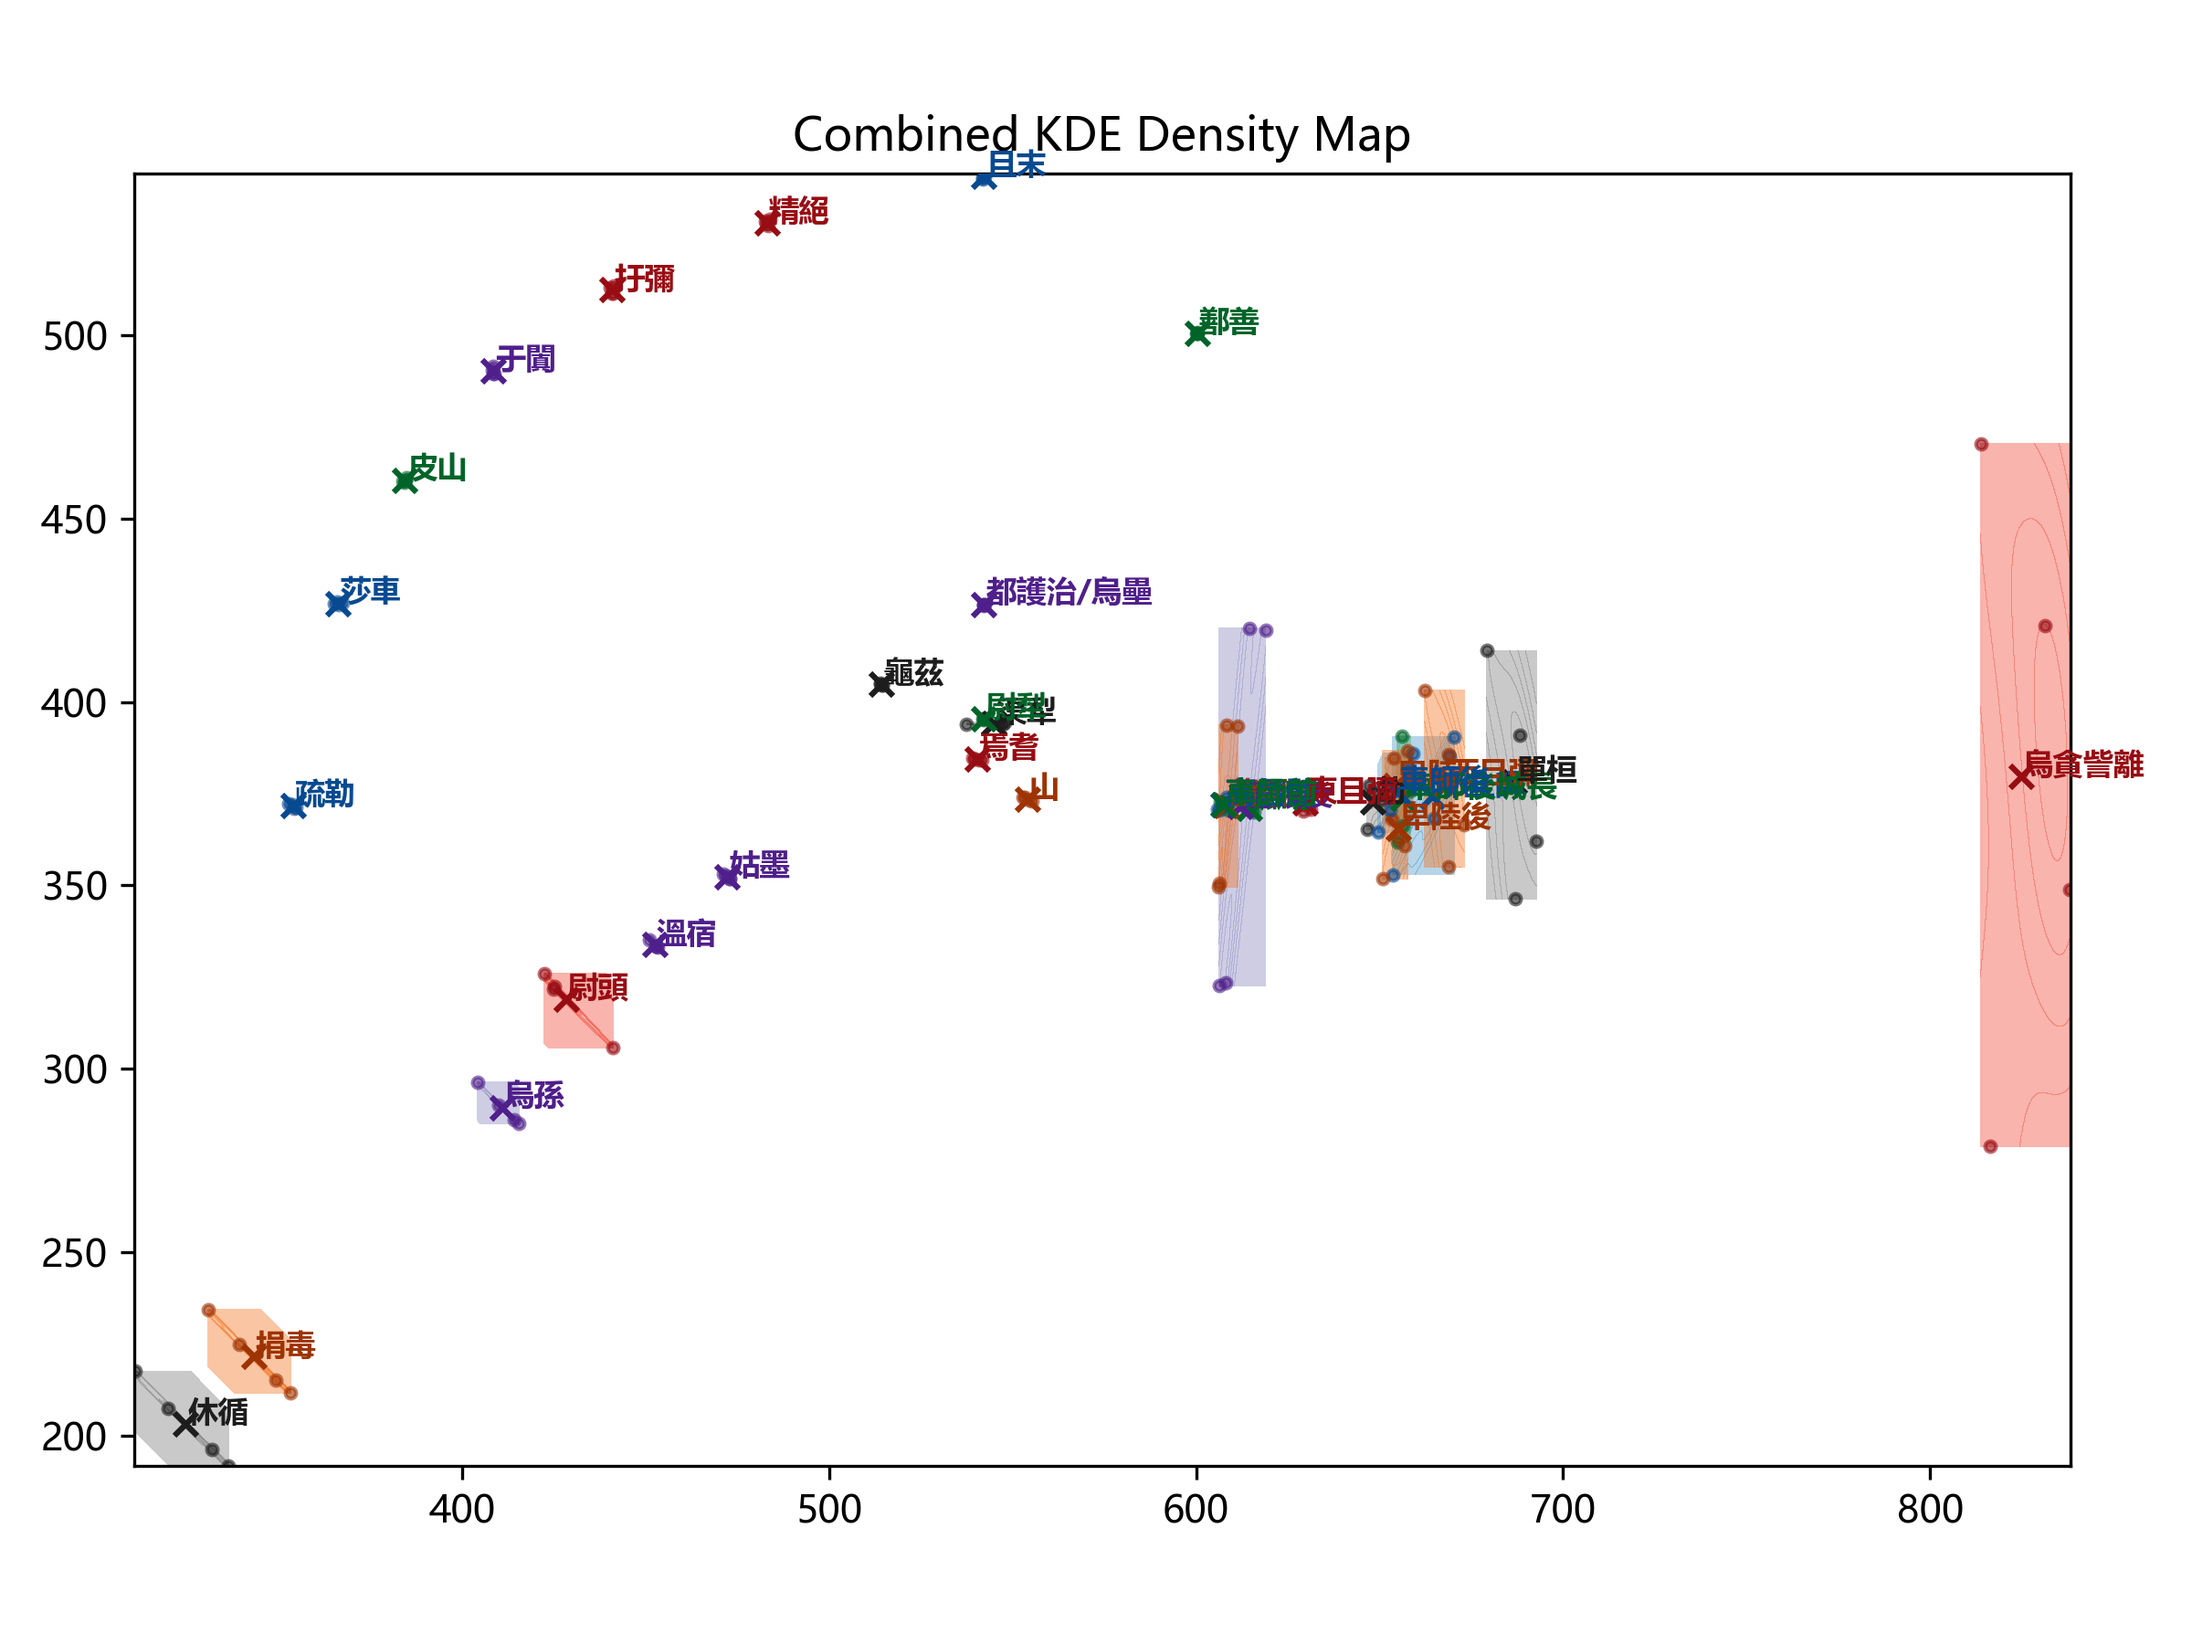
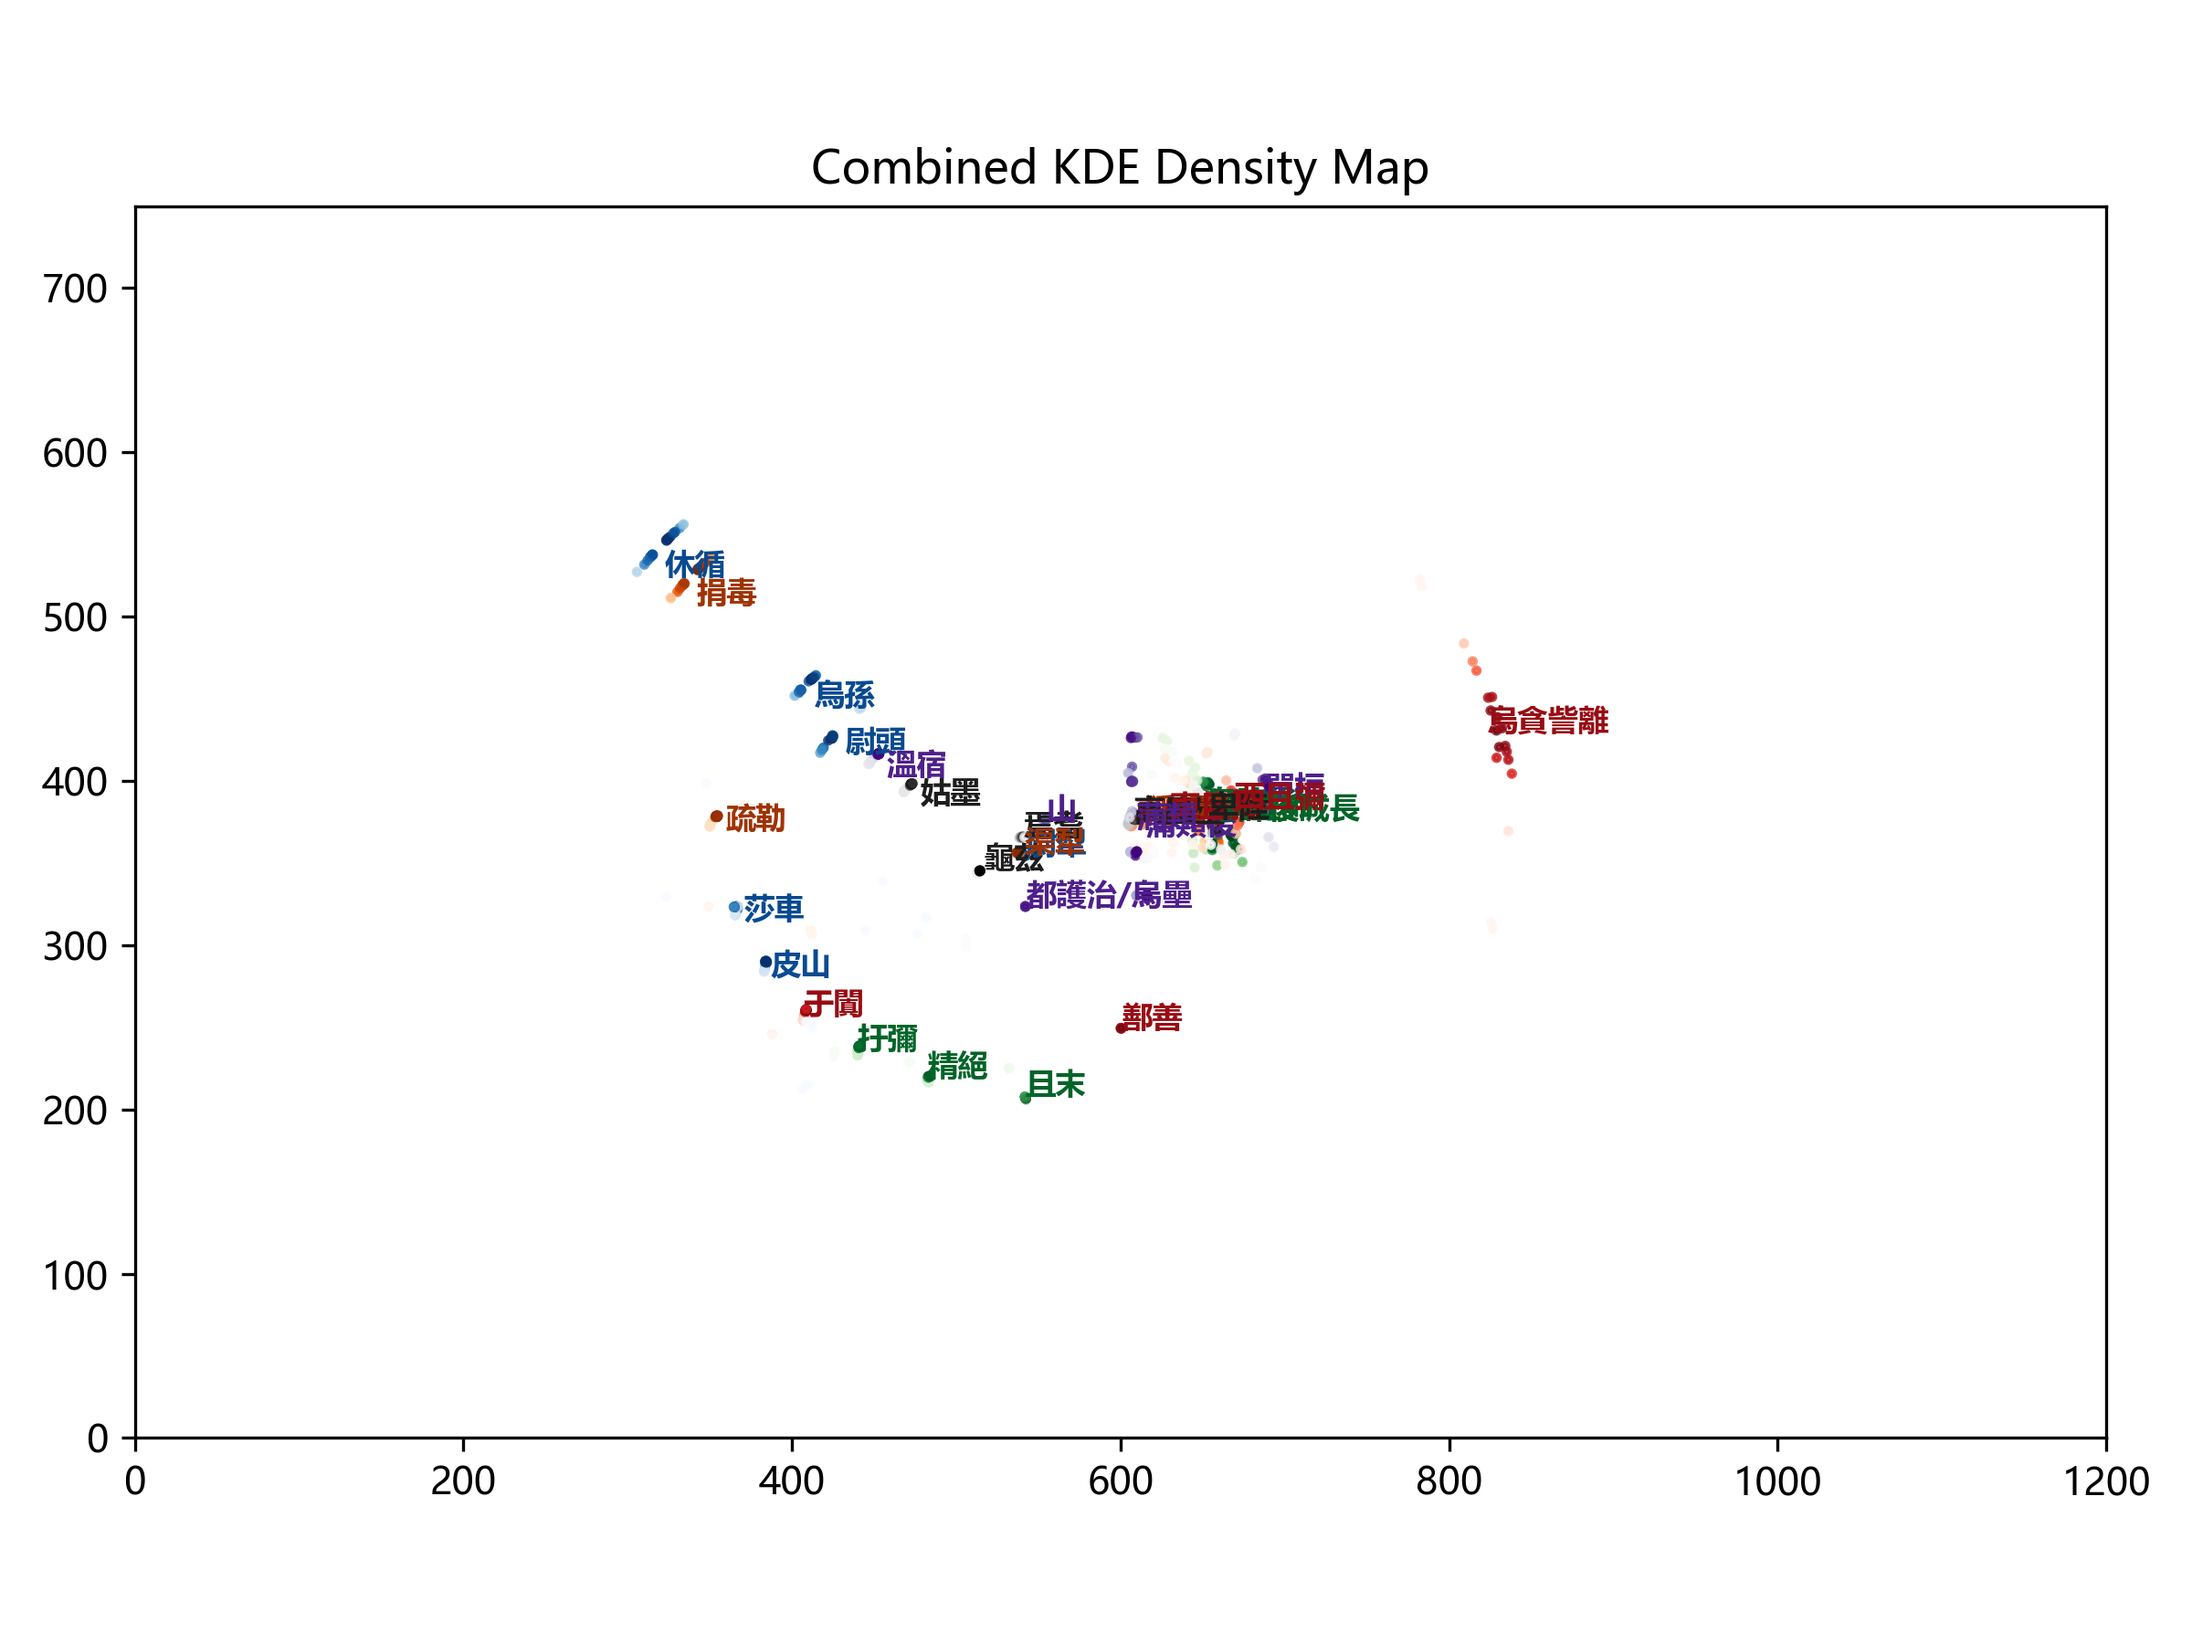
update KDE code

diff --git a/scripts/multi_spring_confidence_ellipse.py b/scripts/multi_spring_confidence_ellipse.py
@@ -20,7 +20,7 @@ from library.physics import *
 from library.initialization import *
 
 # ==== 參數可自行調整 ============================
-N_BOOTSTRAP          = 4      # 重覆次數（>300 建議跑一夜）
+N_BOOTSTRAP          = 20      # 重覆次數（>300 建議跑一夜）
 SPRING_JITTER        = 0.05    # 每次彈簧係數隨機 ±5 %
 REPULSE_JITTER       = 0.20    # 排斥力常數 ±20 %
 ELLIPSES_FILE        = "multi_confidence_ellipses.png"
@@ -137,18 +137,18 @@ def _plot_kde_combined(samples, vertice):
     if dim != 2:
         raise ValueError("samples 的第三維度必須為 2 (x, y)")
 
-    # 2. 將所有點攤平成 (B * N_nodes, 2) 以取得全域邊界
-    all_pts = samples.reshape(-1, 2)
-    xmin_global, ymin_global = all_pts.min(axis=0) - 0.1
-    xmax_global, ymax_global = all_pts.max(axis=0) + 0.1
+    # 2. 先把 Pygame 的 y 座標翻轉成左下為原點
+    #    由於 Pygame 座標 y=0 在上方，y=750 在下方：
+    #    新的 y_new = 750 - y_old
+    #    下面直接對整個 samples 做翻轉
+    samples_flipped = samples.copy()  # 避免改到原陣列
+    samples_flipped[:, :, 1] = 750.0 - samples_flipped[:, :, 1]
 
-    # 3. 建立大範圍網格 (200×200)，供所有節點共用
-    #    這是為了讓每個節點都在同一個坐標系上繪製，方便比較、避免各自縮放
-    xx_global, yy_global = np.mgrid[
-        xmin_global:xmax_global:200j,
-        ymin_global:ymax_global:200j
-    ]
-    grid_coords_global = np.vstack([xx_global.ravel(), yy_global.ravel()])  # shape = (2, 200*200)
+    # 3. 建立全螢幕網格 (200×200)，範圍從 x=0→1200, y=0→750
+    xmin, xmax = 0.0, 1200.0
+    ymin, ymax = 0.0, 750.0
+    xx, yy = np.mgrid[xmin:xmax:200j, ymin:ymax:200j]  # xx.shape = (200,200), yy.shape = (200,200)
+    grid_coords = np.vstack([xx.ravel(), yy.ravel()])  # shape = (2, 200*200)
 
     # 4. 準備一組可循環的序列調色盤名稱，避免顏色重覆太快
     seq_cmaps = ['Reds', 'Greens', 'Blues', 'Oranges', 'Purples', 'Greys']
@@ -161,7 +161,7 @@ def _plot_kde_combined(samples, vertice):
     # 6. 依序處理每個節點
     for idx, name in enumerate(vertice):
         # 6.1 取出該節點的所有 B 個 bootstrap 样本 (shape = (B, 2))
-        node_samples = samples[:, idx, :]
+        node_samples = samples_flipped[:, idx, :]
 
         # 6.2 如果該節點的樣本數量 < 2 或所有坐標完全相同 (無法做 KDE)，就
         #     只繪製平均位置的 marker 與 label，並跳過 KDE 下的散點密度
@@ -198,71 +198,65 @@ def _plot_kde_combined(samples, vertice):
             ax.text(mean_xy[0] + 0.5, mean_xy[1] + 0.5, name,
                     color='r', fontsize=8, fontweight='bold', zorder=4)
             continue
+        
+        # ====== 改為：先在「node_samples 上」計算每個點的 KDE 密度值，然後用 scatter 著色 ======
+        # 6.4.1 先針對該節點的所有 bootstrap 點，算出它們各自的密度 d_i
+        # node_samples.shape = (B,2)，我們把它的 (x,y) 堆成 (2,B) 傳給 kde
+        densities = kde(node_samples.T)    # 回傳 shape=(B,) 的每個點的 f(x_i,y_i)
 
+        # 6.4.2 選擇該節點的 colormap 與底色、marker 顏色
+        cmap_obj    = plt.get_cmap(seq_cmaps[idx % len(seq_cmaps)])
+        marker_color = cmap_obj(0.9)   # 之後用來畫平均點、文字
+
+        # 6.4.3 用 scatter，colors= densities，並搭配 colormap 自動映射顏色
+        #         這裡 c=densities 讓顏色深淺依照 KDE 高度變化
+        ax.scatter(
+            node_samples[:, 0], node_samples[:, 1],
+            c=densities,               # 以密度值決定顏色
+            cmap=seq_cmaps[idx % len(seq_cmaps)], # 或 cmap_obj，直接用此節點的 colormap
+            s=3,                       # 半徑調小：原本是 8，改成 4 讓點更細
+            alpha=0.8,                 # 可以自行調整透明度(反正顏色本身就會深淺)
+            zorder=2
+        )
+        
+        '''
         # 6.4 建立該節點專屬的網格範圍 (限制在 global 範圍內，避免出界)
-        #     但若 (max-min) 太小，也要擴充到最小範圍 min_span
-        node_min = node_samples.min(axis=0)
-        node_max = node_samples.max(axis=0)
-        span = node_max - node_min
-        min_span = 0.2  # 至少為 0.2 單位，避免網格過窄
-        # 計算本節點網格邊界 (局部範圍)
-        xmin_loc = node_min[0] - 0.1
-        xmax_loc = node_max[0] + 0.1
-        ymin_loc = node_min[1] - 0.1
-        ymax_loc = node_max[1] + 0.1
-        # 確保最小差距不低於 min_span
-        if (xmax_loc - xmin_loc) < min_span:
-            center_x = (xmax_loc + xmin_loc) / 2
-            xmin_loc = center_x - min_span / 2
-            xmax_loc = center_x + min_span / 2
-        if (ymax_loc - ymin_loc) < min_span:
-            center_y = (ymax_loc + ymin_loc) / 2
-            ymin_loc = center_y - min_span / 2
-            ymax_loc = center_y + min_span / 2
+        # 【改為使用全螢幕固定網格 xx, yy, grid_coords 來計算 KDE】
+        zz = kde(grid_coords).reshape(xx.shape)             # 全局 200×200 網格上算密度
+        zz_masked = np.ma.masked_where(zz <= 0, zz)         # 掩掉 <= 0 的值，只留正密度
 
-        # 6.5 在本地範圍上生成一個 200×200 的細網格，用於計算 KDE
-        xx_loc, yy_loc = np.mgrid[
-            xmin_loc:xmax_loc:200j,
-            ymin_loc:ymax_loc:200j
-        ]
-        grid_coords_loc = np.vstack([xx_loc.ravel(), yy_loc.ravel()])  # (2, 40000)
-
-        # 6.6 在此網格上評估 KDE，得到密度矩陣 zz_loc (200×200)
-        zz_loc = kde(grid_coords_loc).reshape(xx_loc.shape)
-
-        # 6.7 對非正值做遮罩 (masked)，確保 contourf 只畫正密度
-        zz_masked = np.ma.masked_where(zz_loc <= 0, zz_loc)
-
-        # 6.8 為該節點選擇顏色：cycle 取不同 colormap
+        # 6.5 為該節點選擇顏色：cycle 取不同 colormap
         cmap_obj = plt.get_cmap(seq_cmaps[idx % len(seq_cmaps)])
         fill_color   = cmap_obj(0.6)  # 半透明填充
         marker_color = cmap_obj(0.9)  # 深色，用於散點與平均點
 
-        # 6.9 在 Axes 上繪製等高面 (contourf)
+        # 6.6 在 Axes 上繪製等高面 (contourf)
         ax.contourf(
-            xx_loc, yy_loc, zz_masked,
+            xx, yy, zz_masked,
             levels=5,                 # 分成 5 個等級
-            colors=[fill_color],      # 全部用同一個顏色
+            colors=["none"],      # 全部用同一個顏色
             alpha=0.4,                # 半透明
             zorder=1                  # 底層
         )
 
-        # 6.10 在同一 Axes 上繪製該節點的原始 bootstrap 散點
+        # 6.7 在同一 Axes 上繪製該節點的原始 bootstrap 散點
         ax.scatter(
             node_samples[:, 0], node_samples[:, 1],
             s=8, color=marker_color,
             alpha=0.6, zorder=2
         )
-
-        # 6.11 繪製該節點的平均位置 (紅叉號改成 marker_color + 'x')
+        '''
         mean_xy = node_samples.mean(axis=0)
+        '''
+        # 6.8 繪製該節點的平均位置 (紅叉號改成 marker_color + 'x')
         ax.plot(
             mean_xy[0], mean_xy[1],
             marker='x', color=marker_color,
-            ms=6, mew=1.5, zorder=3
+            ms=4, mew=1.5, zorder=3
         )
-
-        # 6.12 在平均點旁邊加文字標籤 (節點名稱)
+        '''
+        
+        # 6.9 在平均點旁邊加文字標籤 (節點名稱)
         ax.text(
             mean_xy[0] + 0.5, mean_xy[1] + 0.5,
             name,
@@ -271,8 +265,8 @@ def _plot_kde_combined(samples, vertice):
         )
 
     # 7. 設定整張圖的 x, y 範圍為所有節點的 globalBound
-    ax.set_xlim(xmin_global, xmax_global)
-    ax.set_ylim(ymin_global, ymax_global)
+    ax.set_xlim(0, 1200)
+    ax.set_ylim(0, 750)
     ax.set_aspect('equal')  # 等比例，讓密度圖與散點不失真
 
     # 8. 圖片標題與排版
